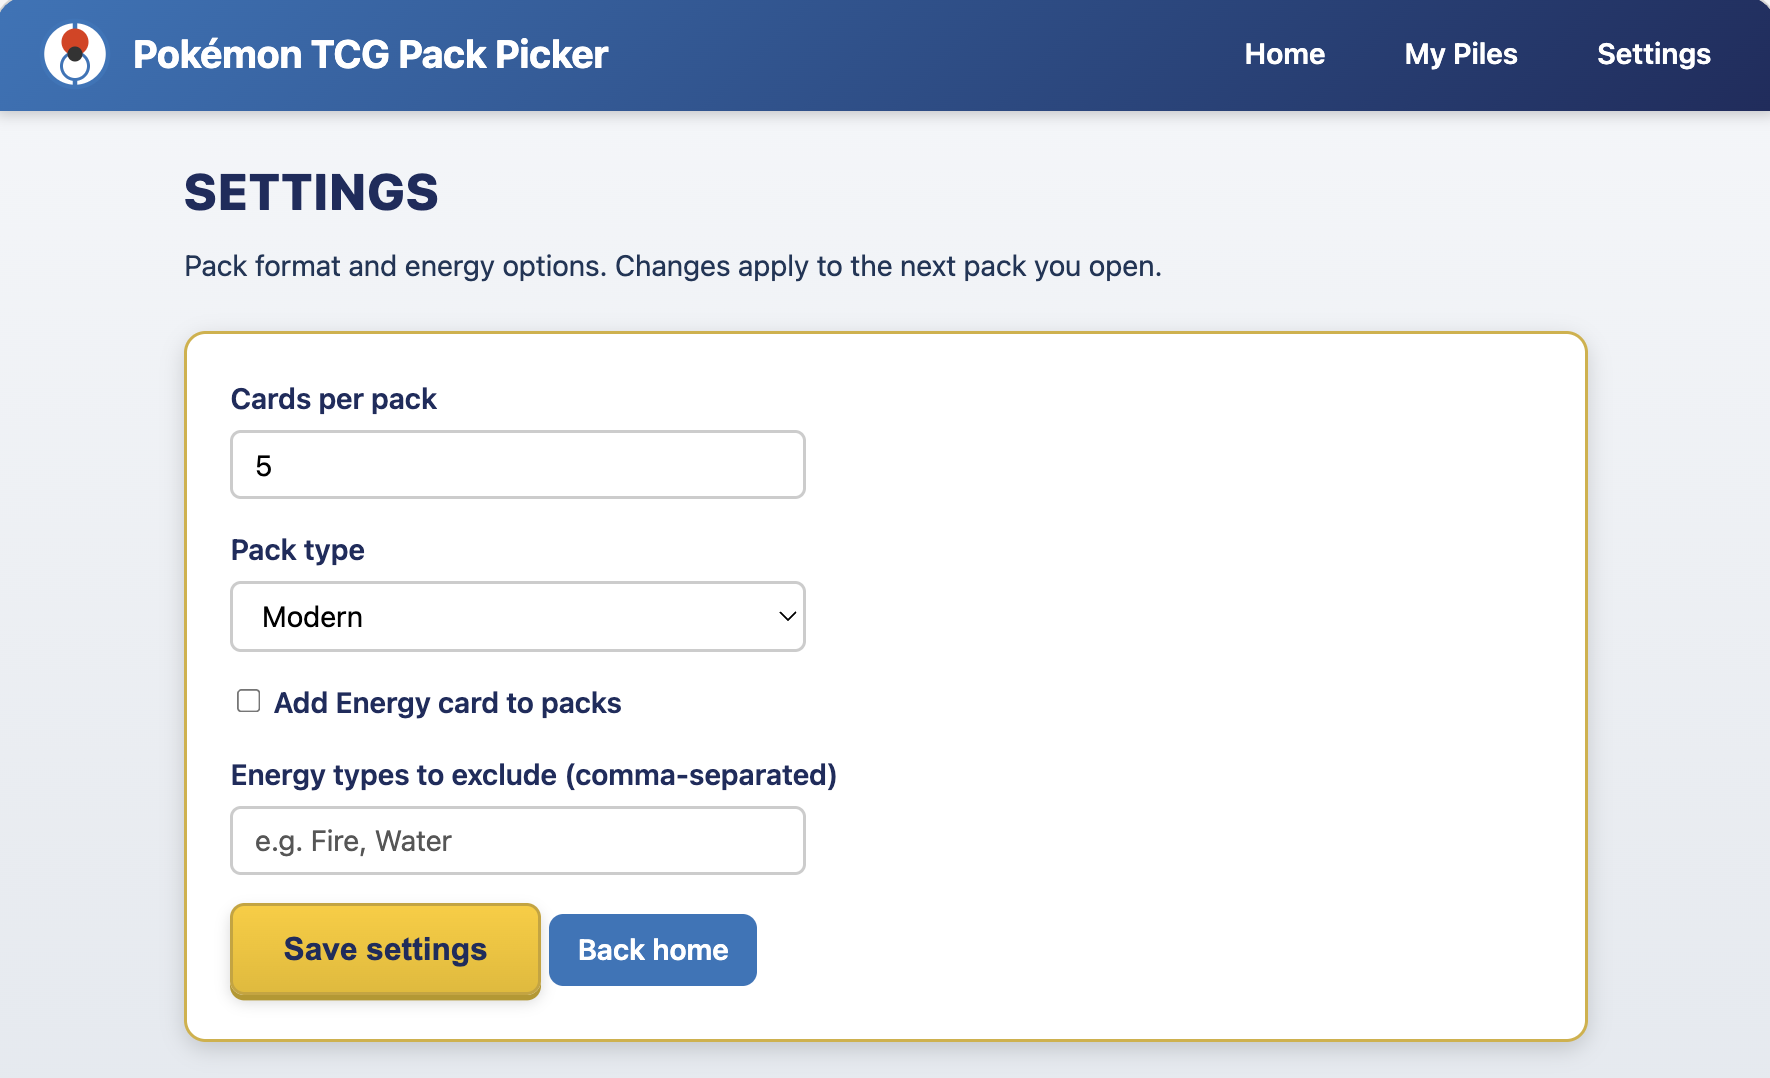
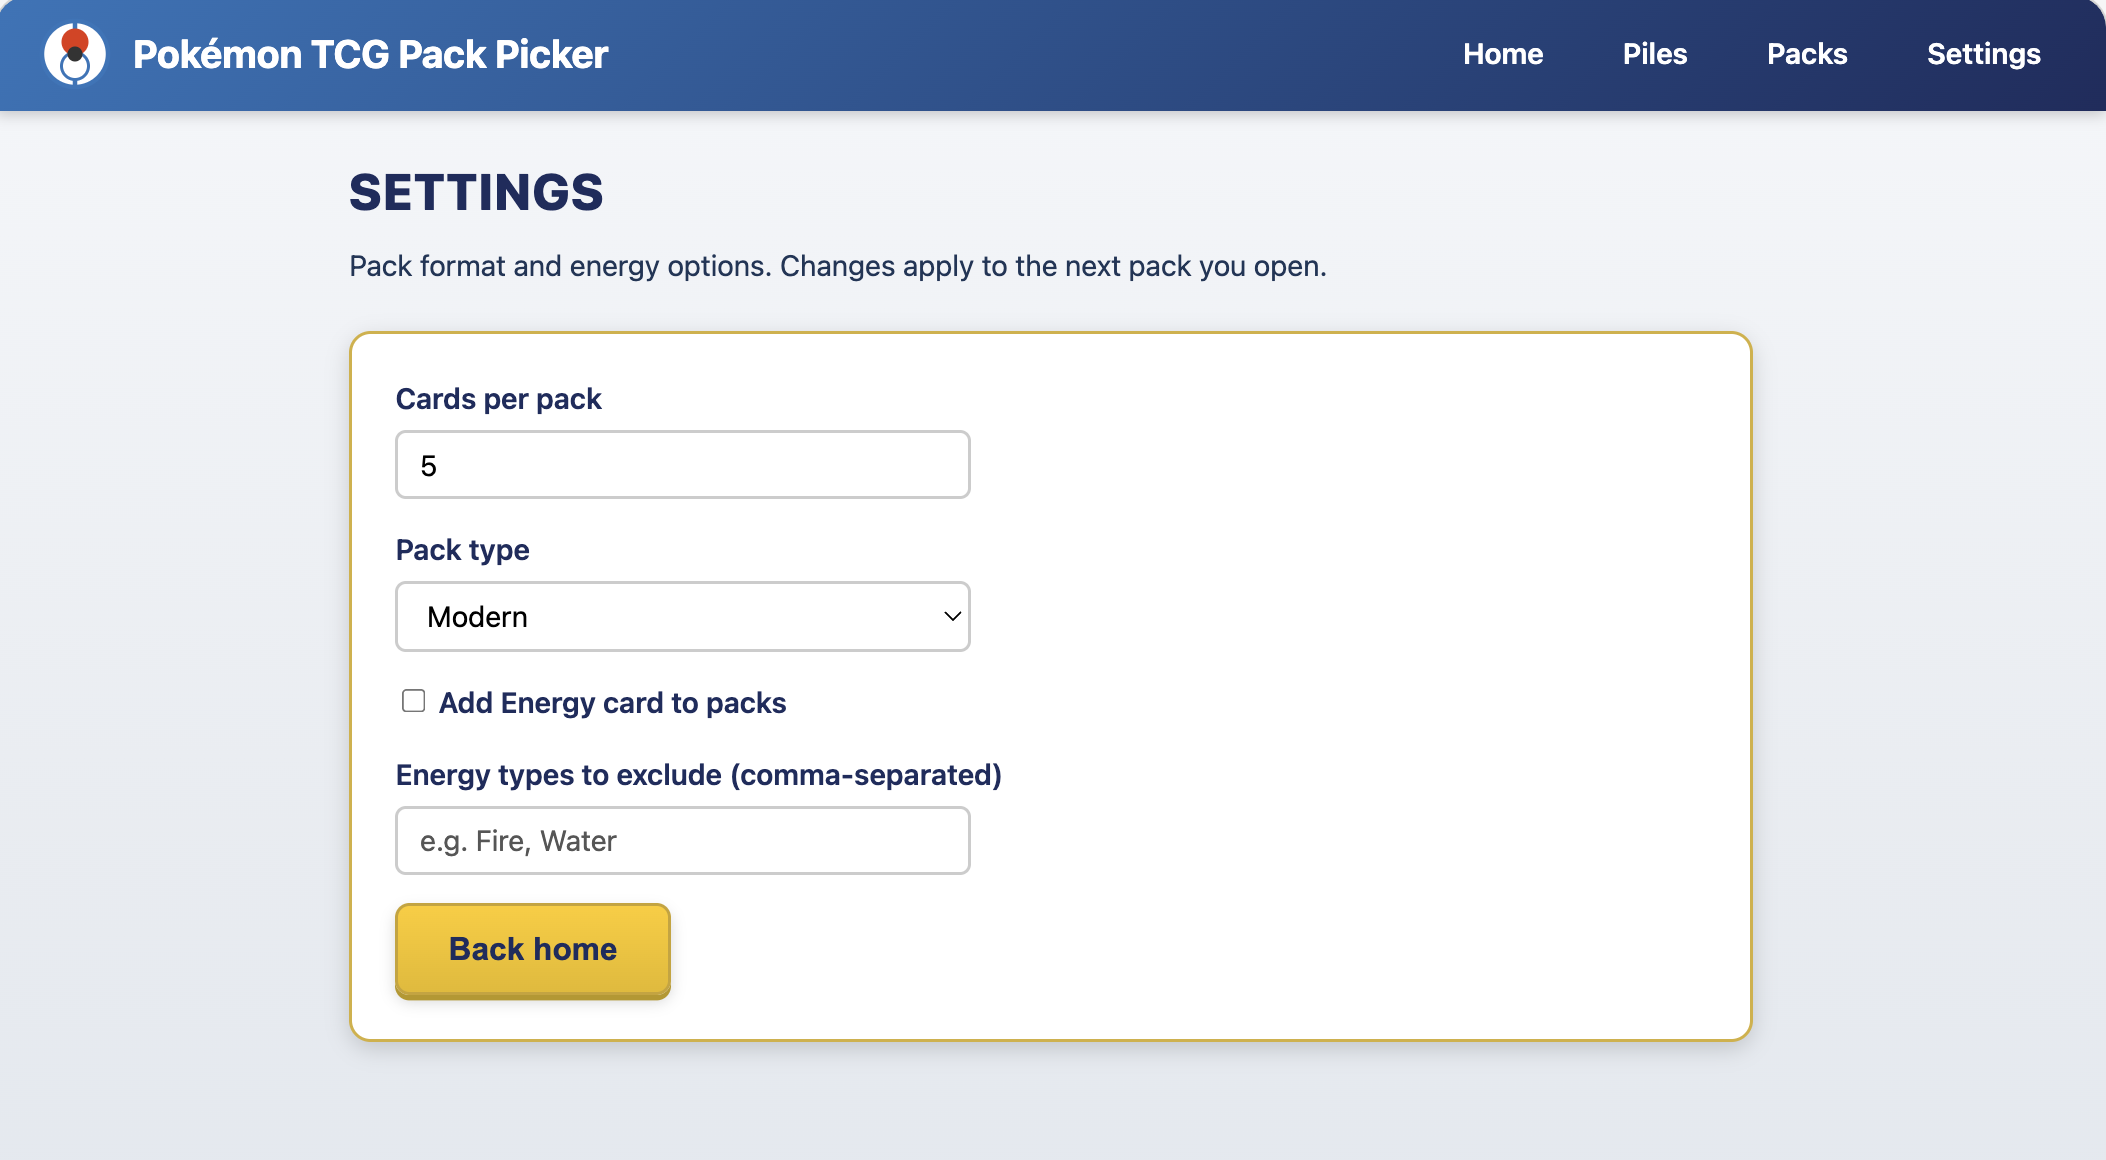
Update screenshots

diff --git a/static/css/style.css b/static/css/style.css
@@ -240,6 +240,12 @@ body {
 
 .btn-secondary:hover { background: var(--pkmn-navy); }
 
+.btn-compact {
+  font-size: 0.875rem;
+  padding: 0.35rem 0.75rem;
+  font-weight: 500;
+}
+
 /* Equal-width button row (e.g. Packs page actions) */
 .btn-row-equal {
   display: flex;
@@ -347,6 +353,7 @@ body {
   border-radius: 6px;
   border: 1px solid #ddd;
 }
+.pack-result-actions { margin-top: 1.75rem; }
 
 /* Hero on home: pack graphic + CTA (title and content beside pack). Pack size set from server. */
 .hero {

diff --git a/src/main.rs b/src/main.rs
@@ -232,6 +232,7 @@ async fn main() -> Result<(), Box<dyn std::error::Error + Send + Sync>> {
         .route("/settings", get(settings_form).post(update_settings))
         .route("/packs", get(packs_index))
         .route("/packs/:id", get(pack_detail_form).post(update_pack))
+        .route("/packs/:id/delete", post(delete_pack))
         .with_state(app_state);
 
     let addr = std::net::SocketAddr::from(([127, 0, 0, 1], 3000));
@@ -280,7 +281,7 @@ fn base_layout(title: &str, content: &str) -> String {
 
 // --------------- Home ---------------
 
-const HOME_LATEST_PACKS: usize = 8;
+const HOME_LATEST_PACKS: usize = 4;
 
 async fn index(State(state): State<SharedState>) -> impl IntoResponse {
     let guard = state.read().await;
@@ -360,6 +361,7 @@ async fn index(State(state): State<SharedState>) -> impl IntoResponse {
 <div class="home-latest-packs">
 <h2>Latest packs</h2>
 <div class="home-latest-list">{}</div>
+<p><a href="/packs" class="btn-secondary btn-compact">See more</a></p>
 </div>
 <div class="home-quick-links">
 <h2>Quick links</h2>
@@ -433,7 +435,7 @@ async fn generate_pack(State(state): State<SharedState>) -> impl IntoResponse {
                 );
                 let _ = save_packs_list(&data_dir, &list);
             }
-            let body = render_pack_result(&result, Some(pack_id));
+            let body = render_pack_result(&result);
             Html(body).into_response()
         }
         Err(e) => {
@@ -503,7 +505,7 @@ fn parse_datetime_local_to_rfc3339(s: &str) -> Option<String> {
         })
 }
 
-fn render_pack_result(result: &pack_gen::PackResult, pack_id: Option<Uuid>) -> String {
+fn render_pack_result(result: &pack_gen::PackResult) -> String {
     let slot_cards: String = result
         .slots
         .iter()
@@ -533,17 +535,8 @@ fn render_pack_result(result: &pack_gen::PackResult, pack_id: Option<Uuid>) -> S
 <p class="page-subtitle">Fill each slot in order. Go to the pile, apply the A/B sequence (A = top half, B = bottom half), then use the final number when you have 10 or fewer cards left.</p>
 {}
 <div class="slot-cards">{}</div>
-<div class="card-panel">
-<p><a href="/" class="btn-primary">Open another pack</a> &nbsp; <a href="/piles" class="btn-secondary">Piles</a>{} &nbsp; <a href="/settings" class="btn-secondary">Settings</a></p>
-</div>"#,
-        warning,
-        slot_cards,
-        pack_id
-            .map(|id| format!(
-                " &nbsp; <a href=\"/packs/{}\" class=\"btn-secondary\">View / edit this pack</a>",
-                id
-            ))
-            .unwrap_or_default()
+<div class="pack-result-actions btn-row-equal"><a href="/" class="btn-primary">Open another pack</a><a href="/piles" class="btn-secondary">My Piles</a></div>"#,
+        warning, slot_cards
     );
     base_layout("Your pack", &content)
 }
@@ -1041,6 +1034,7 @@ async fn pack_detail_form(
 {}
 </tbody></table>
 <button type="submit" class="btn-primary">Back to packs</button>
+<form action="/packs/{}/delete" method="post" style="display:inline; margin-left: 0.5rem;" onsubmit="return confirm('Delete this pack?');"><button type="submit" class="btn-danger">Delete pack</button></form>
 </form>
 <script>
 (function() {{
@@ -1063,7 +1057,8 @@ async fn pack_detail_form(
         title_esc,
         html_escape(&created_at_to_datetime_local_value(&record.created_at)),
         notes_esc,
-        slot_rows
+        slot_rows,
+        id
     );
     Html(base_layout("Edit pack", &content)).into_response()
 }
@@ -1143,6 +1138,19 @@ async fn update_pack(
     }
 }
 
+async fn delete_pack(State(state): State<SharedState>, Path(id): Path<Uuid>) -> impl IntoResponse {
+    let guard = state.read().await;
+    let data_dir = guard.data_dir.clone();
+    drop(guard);
+    if let Ok(mut list) = state::load_packs_list(&data_dir) {
+        list.retain(|e| e.id != id);
+        let _ = state::save_packs_list(&data_dir, &list);
+    }
+    let path = state::pack_file_path(&data_dir, id);
+    let _ = std::fs::remove_file(&path);
+    (StatusCode::FOUND, [(LOCATION, "/packs".to_string())], ()).into_response()
+}
+
 // --------------- Settings ---------------
 
 async fn settings_form(State(state): State<SharedState>) -> impl IntoResponse {
@@ -1186,14 +1194,28 @@ async fn settings_form(State(state): State<SharedState>) -> impl IntoResponse {
         r#"<h1 class="page-title">Settings</h1>
 <p class="page-subtitle">Pack format and energy options. Changes apply to the next pack you open.</p>
 <div class="card-panel">
-<form method="post" action="/settings">
+<form id="settings-form" method="post" action="/settings">
 <div class="form-group"><label>Cards per pack</label><input type="number" name="pack_size" value="{}" min="1" max="20"></div>
 <div class="form-group"><label>Pack type</label><select name="pack_type">{}</select></div>
 <div class="form-group"><label class="checkbox-label"><input type="checkbox" name="add_energy" value="1" {}> Add Energy card to packs</label></div>
 <div class="form-group"><label>Energy types to exclude (comma-separated)</label><input type="text" name="energy_types_out" value="{}" placeholder="e.g. Fire, Water"></div>
-<button type="submit" class="btn-primary">Save settings</button> <a href="/" class="btn-secondary">Back home</a>
+<button type="submit" class="btn-primary">Back home</button>
 </form>
-</div>"#,
+</div>
+<script>
+(function() {{
+  var form = document.getElementById('settings-form');
+  if (!form) return;
+  function save() {{
+    var fd = new FormData(form);
+    fetch(form.action, {{ method: 'POST', body: fd, headers: {{ 'X-Requested-With': 'XMLHttpRequest' }} }});
+  }}
+  [].slice.call(form.querySelectorAll('input, select')).forEach(function(el) {{
+    el.addEventListener('blur', save);
+    el.addEventListener('change', save);
+  }});
+}})();
+</script>"#,
         s.pack_size,
         pack_type_options,
         if s.add_energy_to_packs { "checked" } else { "" },
@@ -1212,6 +1234,7 @@ struct SettingsForm {
 
 async fn update_settings(
     State(state): State<SharedState>,
+    headers: axum::http::HeaderMap,
     Form(f): Form<SettingsForm>,
 ) -> impl IntoResponse {
     let mut guard = state.write().await;
@@ -1238,5 +1261,13 @@ async fn update_settings(
     if save(&state).await.is_err() {
         tracing::error!("Failed to save state");
     }
-    Redirect::to("/settings")
+    let is_ajax = headers
+        .get("X-Requested-With")
+        .and_then(|v| v.to_str().ok())
+        == Some("XMLHttpRequest");
+    if is_ajax {
+        (StatusCode::NO_CONTENT, ()).into_response()
+    } else {
+        (StatusCode::FOUND, [(LOCATION, "/".to_string())], ()).into_response()
+    }
 }
